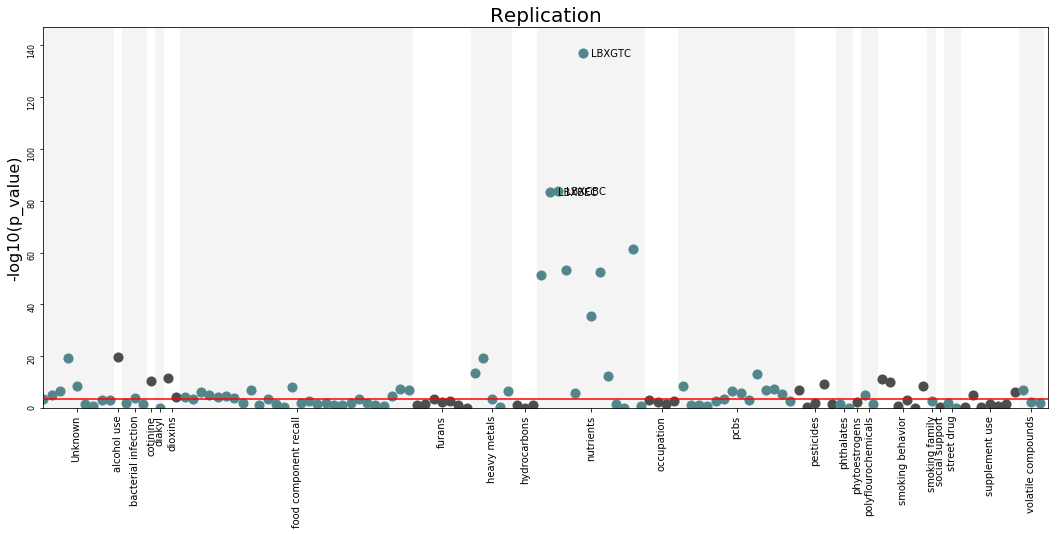
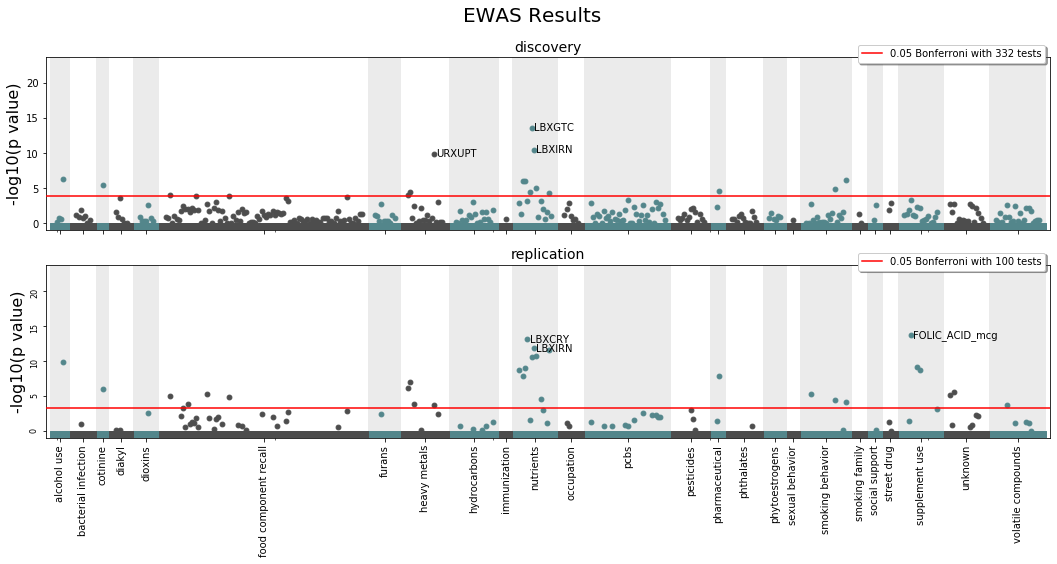
Added a function that plots multiple datasets on different rows and used this to also plot single manhattan plots directly from the dataframe

diff --git a/clarite/plotting.py b/clarite/plotting.py
@@ -1,3 +1,4 @@
+from copy import copy
 from typing import Dict, List, Optional, Tuple
 
 from matplotlib.collections import PatchCollection
@@ -12,10 +13,12 @@ from .ewas import result_columns, corrected_pvalue_columns
 def plot_manhattan(dfs: Dict[str, pd.DataFrame],
                    categories: Dict[str, str] = dict(),
                    num_labeled: int = 3,
+                   label_vars: List[str] = list(),
                    figsize: Tuple[int, int] = (18, 7),
                    title: Optional[str] = None,
                    colors: List[str] = ["#53868B", "#4D4D4D"],
-                   background_colors: List[str] = ["#EBEBEB", "#FFFFFF"]):
+                   background_colors: List[str] = ["#EBEBEB", "#FFFFFF"],
+                   filename: Optional[str] = None):
     """
     Create a Manhattan-like plot for a list of EWAS Results
 
@@ -27,14 +30,18 @@ def plot_manhattan(dfs: Dict[str, pd.DataFrame],
         A dictionary mapping each variable name to a category name
     num_labeled: int, default 3
         Label the top <num_labeled> results with the variable name
+    label_vars: list of strings, default empty list
+        Label the named variables
     figsize: tuple(int, int), default (12, 5)
         The figure size of the resulting plot
     title: string or None, default None
         The title used for the plot
     colors: List(string, string), default ["#53868B", "#4D4D4D"]
-        A list of two colors to use for alternating categories
+        A list of colors to use for alternating categories (must be same length as 'background_colors')
     background_colors: List(string, string), default ["#EBEBEB", "#FFFFFF"]
-        A list of two background colors to use for alternating categories
+        A list of background colors to use for alternating categories (must be same length as 'colors')
+    filename: Optional str
+        If provided, a copy of the plot will be saved to the specified file
 
     Returns
     -------
@@ -42,11 +49,14 @@ def plot_manhattan(dfs: Dict[str, pd.DataFrame],
 
     Examples
     --------
-    >>> ewas_replication.clarite.plot_manhattan(categories=data_categories, title="Replication")
+    >>> clarite.plot_manhattan({'discovery':disc_df, 'replication':repl_df}, categories=data_categories, title="EWAS Results")
 
     .. image:: _static/plots/plot_manhattan.png
     """
+    # Hardcoded options
+    offset = 5  # Spacing between categories
 
+    # Parameter Validation - EWAS Results
     for df_idx, df in enumerate(dfs.values()):
         if list(df) != result_columns + corrected_pvalue_columns:
             raise ValueError(f"This plot may only be created for EWAS results with corrected p-values added. "
@@ -64,58 +74,96 @@ def plot_manhattan(dfs: Dict[str, pd.DataFrame],
     df['-log10(p value)'] = -1 * df['pvalue'].apply(np.log10)
 
     # Sort and extract an 'index' column
-    df = df.sort_values(['category', 'variable']).reset_index(drop=True).reset_index()
+    df = df.sort_values(['category', 'variable']).reset_index(drop=True)
 
     # Update index (actually x position) column by padding between each category
-    offset = 5
-    df['category_x_offset'] = df.groupby('category').ngroup() * offset
-    df['index'] += df['category_x_offset']
+    df['category_x_offset'] = df.groupby('category').ngroup() * offset  # sorted category number, multiplied to pad between categories
+    df['xpos'] = df.groupby(['category', 'variable']).ngroup() + df['category_x_offset']  # sorted category/variable number plus category offset
 
-    # Plot
-    _, ax = plt.subplots(1, 1, figsize=figsize)
-
+    # Create Plot and structures to hold category info
+    fig, axes = plt.subplots(len(dfs), 1, figsize=figsize, sharex=True, sharey=True)
     x_labels = []
     x_labels_pos = []
     foreground_rectangles = [list() for c in colors]
-    for category_num, (category_name, category_data) in enumerate(df.groupby('category')):
-        # background bars
-        left = category_data['index'].min() - (offset / 2) - 0.5
-        right = category_data['index'].max() + (offset / 2) + 0.5
-        width = right - left
-        ax.axvspan(left, right, facecolor=background_colors[category_num % len(colors)], alpha=0.5)
-        # foreground bars
-        rect = Rectangle(xy=(right, 0), width=width, height=1, angle=180.0)
-        foreground_rectangles[category_num % len(colors)].append(rect)
-        ax.axvspan(left, right, facecolor=background_colors[category_num % len(colors)], alpha=0.5, )
-        # plotted points
-        category_data.plot(kind='scatter', x='index', y='-log10(p value)',
-                           color=colors[category_num % len(colors)], zorder=2, s=10000/len(df), ax=ax)
-        # Record centered position and name of xticks
-        x_labels.append(category_name)
-        x_labels_pos.append(left + width/2)
 
-    # Show the foreground rectangles by making a collection then adding it
-    for rect_idx, rect_list in enumerate(foreground_rectangles):
-        pc = PatchCollection(rect_list, facecolor=colors[rect_idx], edgecolor=colors[rect_idx], alpha=1, zorder=2)
-        ax.add_collection(pc)
+    # Wrap axes in a list if there is only one plot so that it can be iterated
+    if len(dfs) == 1:
+        axes = [axes]
+
+    # Plot
+    if len(categories) > 0:
+        # Include category info
+        for category_num, (category_name, category_data) in enumerate(df.groupby('category')):
+            # background bars
+            left = category_data['xpos'].min() - (offset / 2) - 0.5
+            right = category_data['xpos'].max() + (offset / 2) + 0.5
+            width = right - left
+            for ax in axes:
+                ax.axvspan(left, right, facecolor=background_colors[category_num % len(colors)], alpha=1)
+            # foreground bars
+            rect = Rectangle(xy=(left, -1), width=width, height=1)
+            foreground_rectangles[category_num % len(colors)].append(rect)
+            # plotted points
+            for dataset_num, (dataset_name, dataset_data) in enumerate(category_data.groupby('dataset')):
+                if len(dataset_data) > 0:  # Sometimes a category has no variables in one dataset
+                    dataset_data.plot(kind='scatter', x='xpos', y='-log10(p value)', label=None,
+                                      color=colors[category_num % len(colors)], zorder=2, s=10000/len(df), ax=axes[dataset_num])
+            # Record centered position and name of xtick for the category
+            x_labels.append(category_name)
+            x_labels_pos.append(left + width/2)
+
+        # Show the foreground rectangles for each category by making a collection then adding it to each axes
+        for rect_idx, rect_list in enumerate(foreground_rectangles):
+            pc = PatchCollection(rect_list, facecolor=colors[rect_idx], edgecolor=colors[rect_idx], alpha=1, zorder=2)
+            for ax in axes:
+                ax.add_collection(copy(pc))  # have to add a copy since the same object can't be added to multiple axes
+    else:
+        # Just plot variables
+        for dataset_num, (dataset_name, dataset_data) in enumerate(df.groupby('dataset')):
+            # Plot points
+            dataset_data.plot(kind='scatter', x='xpos', y='-log10(p value)', label=None,
+                              color=colors[0], zorder=2, s=10000/len(df), ax=axes[dataset_num])
+        # Plot a single rectangle on each axis
+        for ax in axes:
+            rect = Rectangle(xy=(0, -1), width=df['xpos'].max(), height=1)
+            pc = PatchCollection([rect], facecolor=colors[0], edgecolor=colors[0], alpha=1, zorder=2)
+            ax.add_collection(pc)
 
     # Format plot
+    for dataset_num, (dataset_name, dataset_data) in enumerate(df.groupby('dataset')):
+        ax = axes[dataset_num]
+        # Set title
+        ax.set_title(dataset_name, fontsize=14)
+        ax.yaxis.label.set_size(16)
+        # Update y-axis
+        plt.yticks(fontsize=8)
+        # Label points
+        top_n = dataset_data.sort_values('-log10(p value)', ascending=False).head(n=num_labeled)['variable']
+        labeled = set(label_vars) | set(top_n)
+        for _, row in dataset_data.loc[dataset_data['variable'].isin(labeled), ].iterrows():
+            ax.text(row['xpos'] + 1, row['-log10(p value)'], str(row['variable']),
+                    rotation=0, ha='left', va='center')
+
+    # Format bottom axes
+    ax = axes[-1]
     ax.set_xticks(x_labels_pos)
     ax.set_xticklabels(x_labels)
-    ax.set_xlim([df['index'].min() - offset, df['index'].max() + offset])
+    ax.tick_params(labelrotation=90)
+    ax.set_xlim([df['xpos'].min() - offset, df['xpos'].max() + offset])
     ax.set_ylim([-1, df['-log10(p value)'].max() + 10])
     ax.set_xlabel('')  # Hide x-axis label since it is obvious
-    ax.set_title(title, fontsize=20)
-    ax.yaxis.label.set_size(16)
-    ax.tick_params(labelrotation=90)
-    plt.yticks(fontsize=8)
 
-    # Significance line
-    significance = -np.log10(0.05/len(df))
-    ax.axhline(y=significance, color='red', linestyle='-', zorder=3)
+    # Significance line for each dataset
+    for dataset_num, (dataset_name, dataset_data) in enumerate(df.groupby('dataset')):
+        num_tests = dataset_data['pvalue'].count()
+        significance = -np.log10(0.05/num_tests)
+        axes[dataset_num].axhline(y=significance, color='red', linestyle='-', zorder=3, label=f"0.05 Bonferroni with {num_tests} tests")
+        axes[dataset_num].legend(loc='upper right', bbox_to_anchor=(1, 1.1), fancybox=True, shadow=True)
 
-    # Label top points
-    for index, row in df.sort_values('-log10(p value)', ascending=False).head(n=num_labeled).iterrows():
-        ax.text(index + 1 + row['category_x_offset'], row['-log10(p value)'], str(row['variable']),
-                rotation=0, ha='left', va='center',
-                )
+    # Title
+    fig.suptitle(title, fontsize=20)
+
+    # Save
+    if filename is not None:
+        plt.savefig(filename, bbox_inches="tight")
+    plt.show()

diff --git a/clarite/clarite.py b/clarite/clarite.py
@@ -568,10 +568,12 @@ class ClariteDataframeAccessor(object):
     def plot_manhattan(self,
                        categories: Dict[str, str] = dict(),
                        num_labeled: int = 3,
+                       label_vars: List[str] = list(),
                        figsize: Tuple[int, int] = (18, 7),
                        title: Optional[str] = None,
                        colors: List[str] = ["#53868B", "#4D4D4D"],
-                       background_colors: List[str] = ["#EBEBEB", "#FFFFFF"]):
+                       background_colors: List[str] = ["#EBEBEB", "#FFFFFF"],
+                       filename: Optional[str] = None):
         """
         Create a Manhattan-like plot for EWAS Results
 
@@ -581,6 +583,8 @@ class ClariteDataframeAccessor(object):
             A dictionary mapping each variable name to a category name
         num_labeled: int, default 3
             Label the top <num_labeled> results with the variable name
+        label_vars: list of strings, default empty list
+            Label the named variables
         figsize: tuple(int, int), default (12, 5)
             The figure size of the resulting plot
         title: string or None, default None
@@ -589,6 +593,8 @@ class ClariteDataframeAccessor(object):
             A list of two colors to use for alternating categories
         background_colors: List(string, string), default ["#EBEBEB", "#FFFFFF"]
             A list of two background colors to use for alternating categories
+        filename: Optional str
+            If provided, a copy of the plot will be saved to the specified file
 
         Returns
         -------
@@ -596,14 +602,16 @@ class ClariteDataframeAccessor(object):
 
         Examples
         --------
-        >>> ewas_replication.clarite.plot_manhattan(categories=data_categories, title="Replication")
+        >>> ewas_discovery.clarite.plot_manhattan(categories=data_categories, title="Discovery", filename="discovery.png")
 
-        .. image:: _static/plots/plot_manhattan.png
+        .. image:: _static/plots/plot_manhattan_single.png
         """
         df = self._obj
 
         # This is a wrapper around a plotting function which handles plotting multiple datasets
-        plot_manhattan({"": df}, categories, num_labeled, figsize, title, colors, background_colors)
+        plot_manhattan(dfs={"": df}, categories=categories, num_labeled=num_labeled, label_vars=label_vars,
+                       figsize=figsize, title=title, colors=colors, background_colors=background_colors,
+                       filename=filename)
 
     ######################################
     # Exploratory Stats and Calculations #

diff --git a/clarite/__init__.py b/clarite/__init__.py
@@ -6,6 +6,7 @@ from .clarite import ClariteDataframeAccessor
 from .ewas import SurveyDesignSpec, ewas, add_corrected_pvalues
 from .utilities import make_binary, make_categorical, make_continuous, merge_variables
 from .io import load_data
+from .plotting import plot_manhattan
 
 __version__ = get_versions()['version']
 del get_versions
